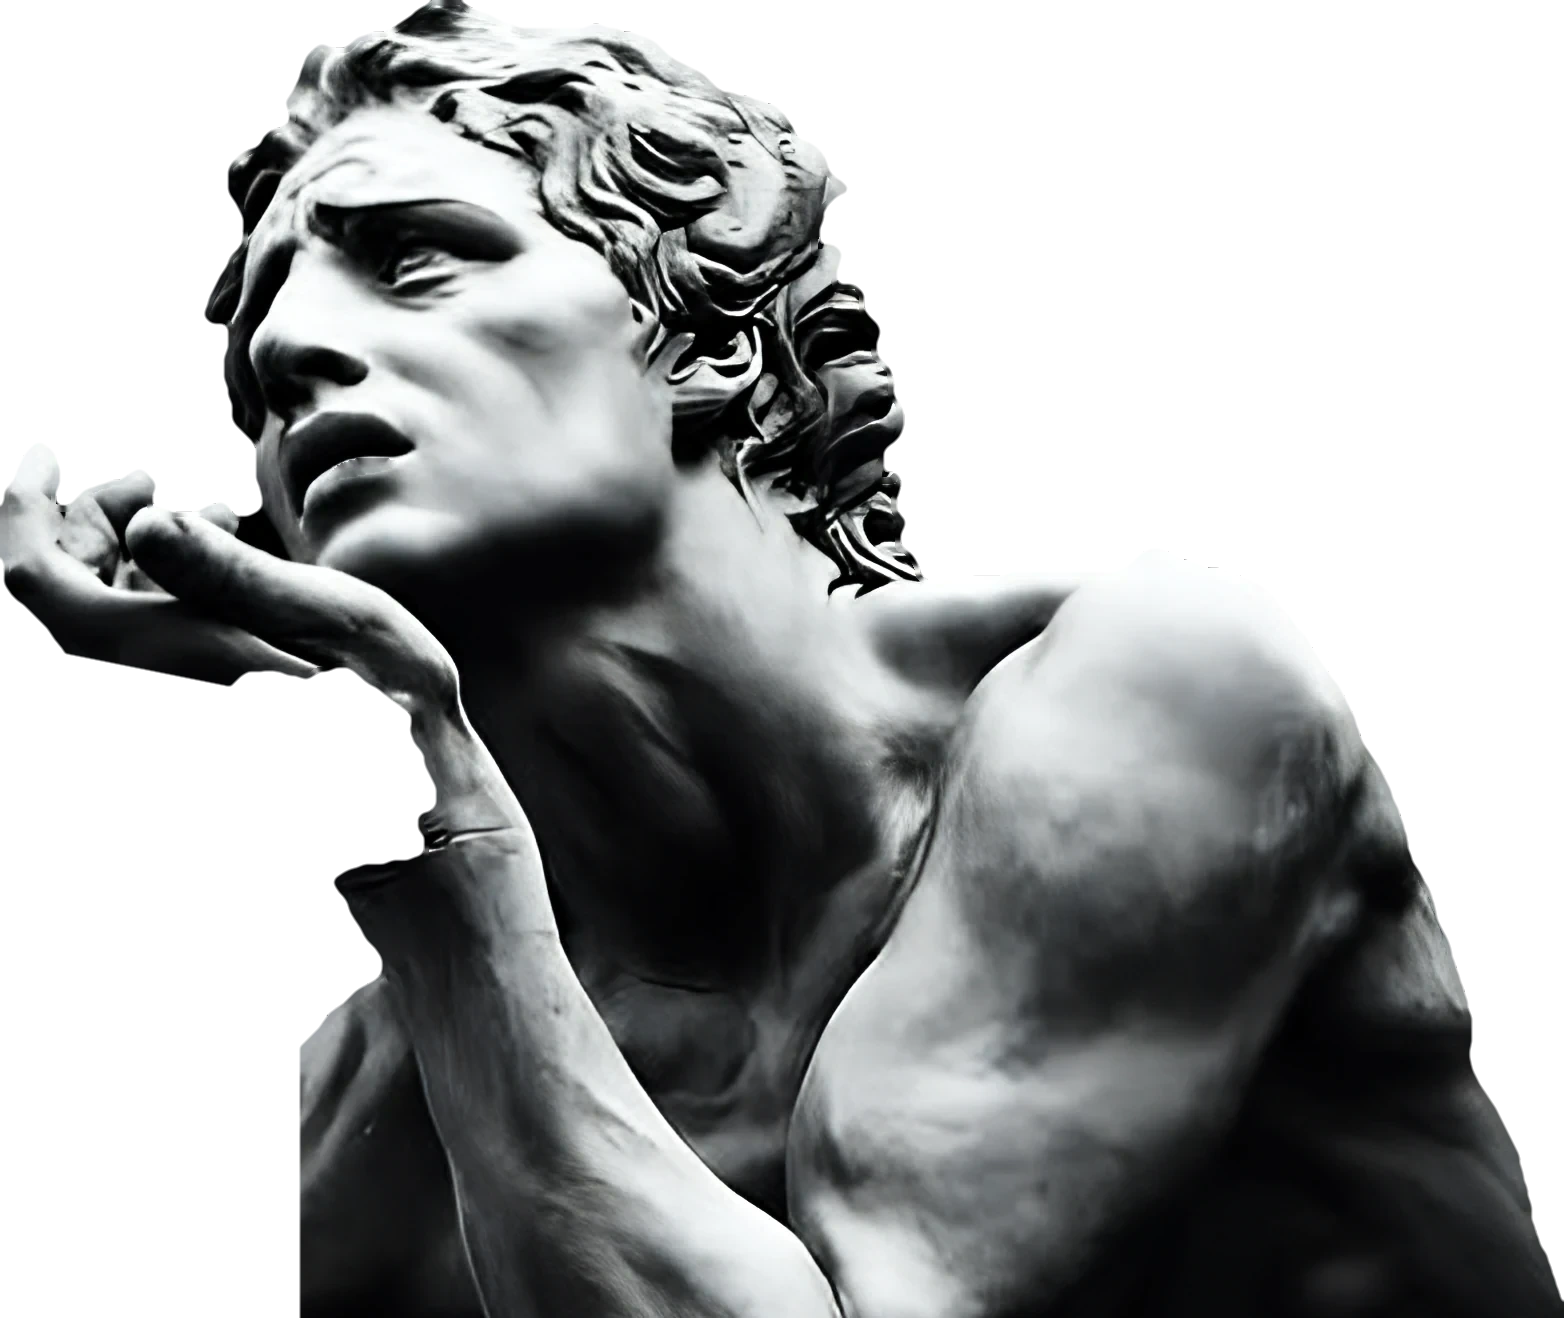
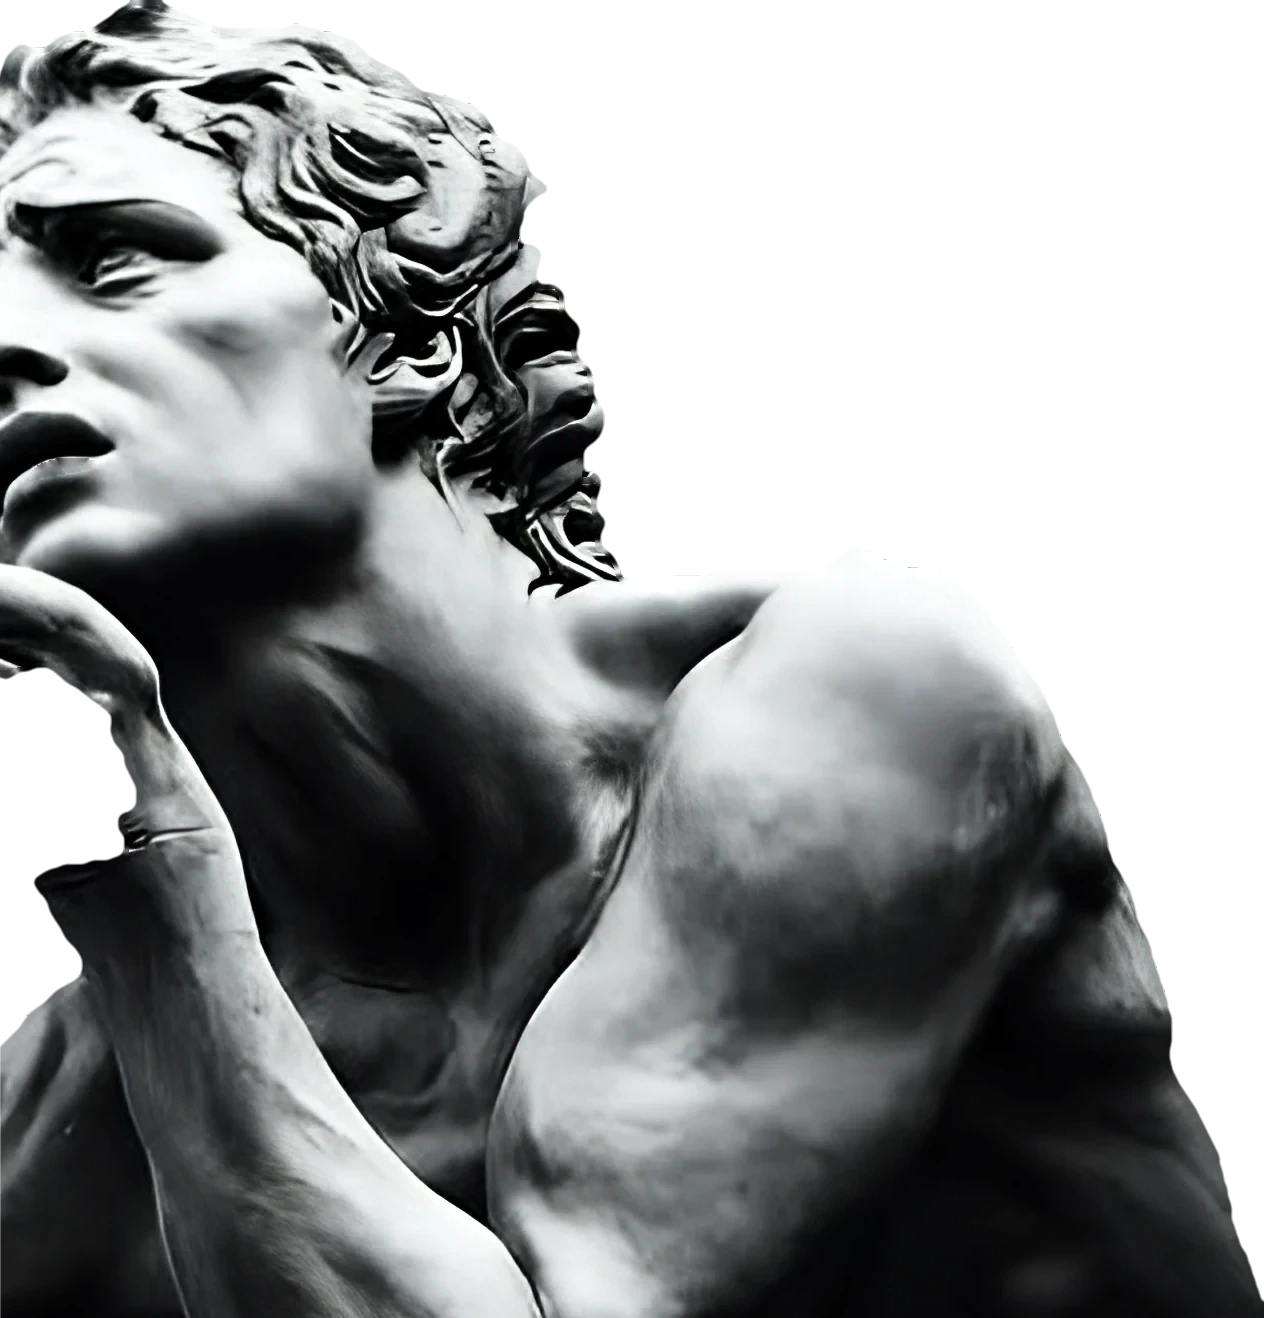
Slide-Studio: Statuen-Fehler behoben
- Bauer: weißer Rest zwischen Mistgabel und Körper entfernt
- Gym: weißer Fleck an der Hüfte entfernt
- Marmor: weiße Stütze zwischen Haar und Schulter entfernt
- Klage: gerade Schnittkante links abgeschnitten
- Orakel (verwaschener Fleck, schwarze Reste) und Athlet (unscharf) entfernt

Claude-Session: https://claude.ai/code/session_01MyGo4cuZxq9Wirjx7cqomh

diff --git a/studio/index.html b/studio/index.html
@@ -242,7 +242,7 @@ select.big { font: inherit; font-size: 15px; color: var(--fg); background: var(-
 </div>
 
 <script>
-const BUILTIN_FIGS = [{"id": "spartaner", "name": "Spartaner", "mood": "strong", "anchor": "fill", "cut": 0.46, "tone": "dark", "src": "fig/spartaner.webp", "thumb": "fig/spartaner_t.webp", "physique": true, "kind": "statue", "light": false, "royalOk": true}, {"id": "marmor", "name": "Marmor", "mood": "strong", "anchor": "center", "cut": 1.0, "tone": "light", "src": "fig/marmor.webp", "thumb": "fig/marmor_t.webp", "physique": true, "kind": "statue", "light": true}, {"id": "ruecken", "name": "Rücken", "mood": "strong", "anchor": "center", "cut": 1.0, "tone": "dark", "src": "fig/ruecken.webp", "thumb": "fig/ruecken_t.webp", "physique": true, "kind": "statue", "light": true}, {"id": "held", "name": "Held", "mood": "strong", "anchor": "center", "cut": 1.0, "edge": "right", "tone": "light", "src": "fig/held.webp", "thumb": "fig/held_t.webp", "physique": true, "kind": "statue", "light": true}, {"id": "hoplit", "name": "Hoplit", "mood": "strong", "anchor": "center", "cut": 1.0, "tone": "light", "src": "fig/hoplit.webp", "thumb": "fig/hoplit_t.webp", "physique": true, "kind": "statue", "light": true, "royalOk": true}, {"id": "bart", "name": "Bart", "mood": "strong", "anchor": "center", "cut": 1.0, "tone": "dark", "src": "fig/bart.webp", "thumb": "fig/bart_t.webp", "physique": true, "kind": "statue", "light": true}, {"id": "chrom", "name": "Chrom", "edge": "right", "mood": "strong", "anchor": "fill", "cut": 0.653, "tone": "light", "src": "fig/chrom.webp", "thumb": "fig/chrom_t.webp", "kind": "statue", "light": false}, {"id": "orakel", "name": "Orakel", "edge": "right", "mood": "strong", "anchor": "fill", "cut": 0.694, "tone": "light", "src": "fig/orakel.webp", "thumb": "fig/orakel_t.webp", "kind": "statue", "light": true}, {"id": "fluegel", "name": "Flügel", "mood": "strong", "anchor": "fill", "cut": 0.5, "tone": "dark", "src": "fig/fluegel.webp", "thumb": "fig/fluegel_t.webp", "physique": true, "fillW": true, "kind": "statue", "light": false}, {"id": "parkplatz", "name": "Athlet", "mood": "strong", "anchor": "center", "cut": 1.0, "tone": "light", "src": "fig/parkplatz.webp", "thumb": "fig/parkplatz_t.webp", "physique": true, "kind": "statue", "light": true}, {"id": "gym", "name": "Gym", "mood": "strong", "anchor": "center", "cut": 1.0, "tone": "light", "src": "fig/gym.webp", "thumb": "fig/gym_t.webp", "physique": true, "kind": "statue", "light": true}, {"id": "schatten", "name": "Schatten", "mood": "strong", "anchor": "center", "cut": 1.0, "tone": "dark", "src": "fig/schatten.webp", "thumb": "fig/schatten_t.webp", "physique": true, "kind": "statue", "light": true}, {"id": "david", "name": "David", "mood": "strong", "anchor": "center", "cut": 1.0, "tone": "light", "src": "fig/david.webp", "thumb": "fig/david_t.webp", "physique": true, "kind": "statue", "light": true}, {"id": "yeschad", "name": "Yes Chad", "mood": "strong", "anchor": "center", "cut": 1.0, "tone": "light", "src": "fig/yeschad.webp", "thumb": "fig/yeschad_t.webp", "kind": "drawing", "light": true}, {"id": "sie", "name": "Sie", "mood": "strong", "anchor": "center", "cut": 1.0, "tone": "light", "src": "fig/sie.webp", "thumb": "fig/sie_t.webp", "kind": "drawing", "light": true}, {"id": "manga", "name": "Manga", "mood": "strong", "anchor": "center", "cut": 1.0, "tone": "light", "src": "fig/manga.webp", "thumb": "fig/manga_t.webp", "kind": "drawing", "light": true}, {"id": "klage", "name": "Klage", "mood": "sad", "anchor": "fill", "cut": 1.0, "fillW": true, "edge": "left", "royalOk": true, "tone": "light", "src": "fig/klage.webp", "thumb": "fig/klage_t.webp", "kind": "statue", "light": true}, {"id": "heulen", "name": "Heulen", "mood": "sad", "anchor": "center", "cut": 1.0, "tone": "light", "src": "fig/heulen.webp", "thumb": "fig/heulen_t.webp", "kind": "drawing", "light": true}, {"id": "faust", "name": "Faust", "mood": "sad", "anchor": "center", "cut": 1.0, "tone": "light", "src": "fig/faust.webp", "thumb": "fig/faust_t.webp", "kind": "drawing", "light": true}, {"id": "muede", "name": "Müde", "mood": "sad", "anchor": "center", "cut": 1.0, "tone": "light", "src": "fig/muede.webp", "thumb": "fig/muede_t.webp", "kind": "drawing", "light": true}, {"id": "koenig", "name": "König", "mood": "strong", "anchor": "center", "cut": 1.0, "tone": "light", "src": "fig/koenig.webp", "thumb": "fig/koenig_t.webp", "kind": "royal", "light": true}, {"id": "koenig2", "name": "König (Maske)", "mood": "strong", "anchor": "center", "cut": 1.0, "tone": "dark", "src": "fig/koenig2.webp", "thumb": "fig/koenig2_t.webp", "kind": "royal", "light": true}, {"id": "feldherr", "name": "Feldherr", "mood": "strong", "anchor": "center", "cut": 1.0, "tone": "dark", "src": "fig/feldherr.webp", "thumb": "fig/feldherr_t.webp", "kind": "royal", "light": true, "edge": "left"}, {"id": "trauer", "name": "Trauer", "mood": "sad", "anchor": "center", "cut": 1.0, "edge": "left", "tone": "light", "src": "fig/trauer.webp", "thumb": "fig/trauer_t.webp", "kind": "statue", "light": true}, {"id": "demut", "name": "Demut", "mood": "sad", "anchor": "center", "cut": 1.0, "tone": "light", "src": "fig/demut.webp", "thumb": "fig/demut_t.webp", "kind": "statue", "light": true}, {"id": "bauer", "name": "Bauer", "mood": "sad", "anchor": "center", "cut": 1.0, "tone": "light", "src": "fig/bauer.webp", "thumb": "fig/bauer_t.webp", "kind": "royal", "light": true}];
+const BUILTIN_FIGS = [{"id": "spartaner", "name": "Spartaner", "mood": "strong", "anchor": "fill", "cut": 0.46, "tone": "dark", "src": "fig/spartaner.webp", "thumb": "fig/spartaner_t.webp", "physique": true, "kind": "statue", "light": false, "royalOk": true}, {"id": "marmor", "name": "Marmor", "mood": "strong", "anchor": "center", "cut": 1.0, "tone": "light", "src": "fig/marmor.webp", "thumb": "fig/marmor_t.webp", "physique": true, "kind": "statue", "light": true}, {"id": "ruecken", "name": "Rücken", "mood": "strong", "anchor": "center", "cut": 1.0, "tone": "dark", "src": "fig/ruecken.webp", "thumb": "fig/ruecken_t.webp", "physique": true, "kind": "statue", "light": true}, {"id": "held", "name": "Held", "mood": "strong", "anchor": "center", "cut": 1.0, "edge": "right", "tone": "light", "src": "fig/held.webp", "thumb": "fig/held_t.webp", "physique": true, "kind": "statue", "light": true}, {"id": "hoplit", "name": "Hoplit", "mood": "strong", "anchor": "center", "cut": 1.0, "tone": "light", "src": "fig/hoplit.webp", "thumb": "fig/hoplit_t.webp", "physique": true, "kind": "statue", "light": true, "royalOk": true}, {"id": "bart", "name": "Bart", "mood": "strong", "anchor": "center", "cut": 1.0, "tone": "dark", "src": "fig/bart.webp", "thumb": "fig/bart_t.webp", "physique": true, "kind": "statue", "light": true}, {"id": "chrom", "name": "Chrom", "edge": "right", "mood": "strong", "anchor": "fill", "cut": 0.653, "tone": "light", "src": "fig/chrom.webp", "thumb": "fig/chrom_t.webp", "kind": "statue", "light": false}, {"id": "fluegel", "name": "Flügel", "mood": "strong", "anchor": "fill", "cut": 0.5, "tone": "dark", "src": "fig/fluegel.webp", "thumb": "fig/fluegel_t.webp", "physique": true, "fillW": true, "kind": "statue", "light": false}, {"id": "gym", "name": "Gym", "mood": "strong", "anchor": "center", "cut": 1.0, "tone": "light", "src": "fig/gym.webp", "thumb": "fig/gym_t.webp", "physique": true, "kind": "statue", "light": true}, {"id": "schatten", "name": "Schatten", "mood": "strong", "anchor": "center", "cut": 1.0, "tone": "dark", "src": "fig/schatten.webp", "thumb": "fig/schatten_t.webp", "physique": true, "kind": "statue", "light": true}, {"id": "david", "name": "David", "mood": "strong", "anchor": "center", "cut": 1.0, "tone": "light", "src": "fig/david.webp", "thumb": "fig/david_t.webp", "physique": true, "kind": "statue", "light": true}, {"id": "yeschad", "name": "Yes Chad", "mood": "strong", "anchor": "center", "cut": 1.0, "tone": "light", "src": "fig/yeschad.webp", "thumb": "fig/yeschad_t.webp", "kind": "drawing", "light": true}, {"id": "sie", "name": "Sie", "mood": "strong", "anchor": "center", "cut": 1.0, "tone": "light", "src": "fig/sie.webp", "thumb": "fig/sie_t.webp", "kind": "drawing", "light": true}, {"id": "manga", "name": "Manga", "mood": "strong", "anchor": "center", "cut": 1.0, "tone": "light", "src": "fig/manga.webp", "thumb": "fig/manga_t.webp", "kind": "drawing", "light": true}, {"id": "klage", "name": "Klage", "mood": "sad", "anchor": "fill", "cut": 1.0, "fillW": true, "edge": "left", "royalOk": true, "tone": "light", "src": "fig/klage.webp", "thumb": "fig/klage_t.webp", "kind": "statue", "light": true}, {"id": "heulen", "name": "Heulen", "mood": "sad", "anchor": "center", "cut": 1.0, "tone": "light", "src": "fig/heulen.webp", "thumb": "fig/heulen_t.webp", "kind": "drawing", "light": true}, {"id": "faust", "name": "Faust", "mood": "sad", "anchor": "center", "cut": 1.0, "tone": "light", "src": "fig/faust.webp", "thumb": "fig/faust_t.webp", "kind": "drawing", "light": true}, {"id": "muede", "name": "Müde", "mood": "sad", "anchor": "center", "cut": 1.0, "tone": "light", "src": "fig/muede.webp", "thumb": "fig/muede_t.webp", "kind": "drawing", "light": true}, {"id": "koenig", "name": "König", "mood": "strong", "anchor": "center", "cut": 1.0, "tone": "light", "src": "fig/koenig.webp", "thumb": "fig/koenig_t.webp", "kind": "royal", "light": true}, {"id": "koenig2", "name": "König (Maske)", "mood": "strong", "anchor": "center", "cut": 1.0, "tone": "dark", "src": "fig/koenig2.webp", "thumb": "fig/koenig2_t.webp", "kind": "royal", "light": true}, {"id": "feldherr", "name": "Feldherr", "mood": "strong", "anchor": "center", "cut": 1.0, "tone": "dark", "src": "fig/feldherr.webp", "thumb": "fig/feldherr_t.webp", "kind": "royal", "light": true, "edge": "left"}, {"id": "trauer", "name": "Trauer", "mood": "sad", "anchor": "center", "cut": 1.0, "edge": "left", "tone": "light", "src": "fig/trauer.webp", "thumb": "fig/trauer_t.webp", "kind": "statue", "light": true}, {"id": "demut", "name": "Demut", "mood": "sad", "anchor": "center", "cut": 1.0, "tone": "light", "src": "fig/demut.webp", "thumb": "fig/demut_t.webp", "kind": "statue", "light": true}, {"id": "bauer", "name": "Bauer", "mood": "sad", "anchor": "center", "cut": 1.0, "tone": "light", "src": "fig/bauer.webp", "thumb": "fig/bauer_t.webp", "kind": "royal", "light": true}];
 
 /* ---------- Lebensmittel ---------- */
 const F = (id, emoji, color, en, de, tags) => ({ id, emoji, color, en, de, tags });

diff --git a/sw.js b/sw.js
@@ -1,7 +1,7 @@
 // Life Maxxing – Service Worker: macht die App offline nutzbar.
 // C = App-Dateien (Version bei jeder Änderung an index.html/JS hochzählen).
 // D = Produktdatenbank (bleibt über App-Updates erhalten, wird im Hintergrund aktualisiert).
-const C="forma-v134", D="forma-data",
+const C="forma-v135", D="forma-data",
   A=["./","index.html","styles.css","data.js","foods-search.js","portionen.js","texterkennung.js","scanner.js","vorschlaege.js","bedarf.js","erinnerungen.js","tagesscore.js","hautcheck.js","fotos.js","tagebuch.js","coach.js","onboarding.js","training.js","verlauf.js","profil.js","figur.js","uebungen.js","gymimport.js","bewertung.js","alternativen.js","recht.js","i18n.js","app.js","manifest.webmanifest","icon-192.png","icon-512.png","apple-touch-icon.png"];
 // cache:"reload": beim Einrichten immer die frischen Dateien vom Server holen (nicht aus dem Browser-Zwischenspeicher)
 self.addEventListener("install",e=>{e.waitUntil(caches.open(C).then(c=>c.addAll(A.map(a=>new Request(a,{cache:"reload"})))).then(()=>self.skipWaiting()));});
